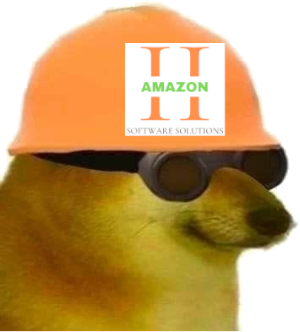
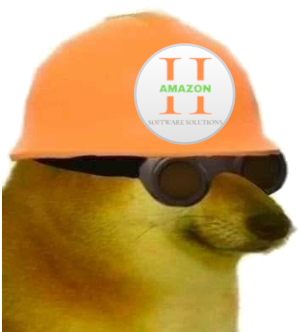
Cambio a las imagenes, botones y añadido al frontend
Se cambio todo a png
Cheems evoluciono
Se mejoro los pop_ups y se implementaron algunos
añadido nuevo color a los botones
Nuevos campos al registro de cliente

diff --git a/inicio.py b/inicio.py
@@ -4,7 +4,7 @@ import tkinter
 from tkinter import  messagebox
 import os
 from tkinter import *
-#from models.administrador import consulta_BD
+from models.administrador import consulta_BD
 import hashlib
 
 def inicio_sesion(): #pantalla al iniciar el programa, se encontrara el inicio de sesion
@@ -17,6 +17,10 @@ def inicio_sesion(): #pantalla al iniciar el programa, se encontrara el inicio d
     password_verify=StringVar() #indicamos el tipo de variable
     cupos=IntVar() #indicamos el tipo de variable
     reserva=IntVar() #indicamos el tipo de variable
+    new_name.delete(first=0,last='end')
+    new_lastname.delete(first=0,last='end')
+    new_user.delete(first=0,last='end')
+    new_password.delete(first=0,last='end')
     
     cupos=10 #inicializamos (TEMPORALES PARA PRUEBAS)
     estrellas=5 #limite de estrellas a dar
@@ -39,24 +43,43 @@ def inicio_sesion(): #pantalla al iniciar el programa, se encontrara el inicio d
 
     #boton para iniciar sesion
     Label(pantalla, text="").pack()
-    Button(pantalla, text='Iniciar Sesión', height="2", width="20", command=validar).pack()
+    Button(pantalla, text='Iniciar Sesión',
+             height="2", width="20",
+             bg= "#BCEBE0",
+             command=validar).pack()
 
     #boton para registrar
     Label(pantalla, text="").pack()
-    Button(pantalla, text='¿No tienes cuenta? \n Registrate!', height="3", width="20", command=registro).pack()  
+    Button(pantalla, text='¿No tienes cuenta? \n Registrate!',
+             height="3", width="20",
+             bg= "#BCEBE0",
+             command=registro).pack()  
 
    #depuramos la pantalla como iniciador del programa 
     pantalla.mainloop()
     
 def registro(): #Se despliega encima de iniciar sesion para dar un registro
-    global pantalla_r, new_user, new_password
+    global pantalla_r, new_user, new_password, new_name, new_lastname
     pantalla_r = Toplevel(pantalla) #pantalla_r = pantalla registro
     pantalla_r.geometry("300x350")
     pantalla_r.title("Registro")
     user_entry.delete(first=0,last='end') #limpiamos campos
     password_entry.delete(first=0,last='end')
+    new_name.delete(first=0,last='end')
+    new_lastname.delete(first=0,last='end')
     
     Label(pantalla_r, text="Ingrese los datos para el registro", font="bold").pack()
+    Label(pantalla_r, text="").pack()
+
+    #Pide el nuevo usuario
+    Label(pantalla_r, text="Nombre(s):").pack()
+    new_name = Entry(pantalla_r, textvariable=user_verify, width="25")
+    new_name.pack()
+
+    #Pide el nuevo usuario
+    Label(pantalla_r, text="Apellido(s):").pack()
+    new_lastname = Entry(pantalla_r, textvariable=user_verify, width="25")
+    new_lastname.pack()
     Label(pantalla_r, text="").pack()
 
     #Pide el nuevo usuario
@@ -71,7 +94,10 @@ def registro(): #Se despliega encima de iniciar sesion para dar un registro
     Label(pantalla_r, text="").pack()
 
     #Registra al nuevo usuario y contraseña
-    Button(pantalla_r, text='REGISTRAR', height="3", width="20", command=registrar_bd).pack()
+    Button(pantalla_r, text='REGISTRAR',
+             height="3", width="20",
+             bg= "#BCEBE0",
+             command=registrar_bd).pack()
     
 def menu_cliente(): #Menu a desplegar a todos estos usuarios de tipo cliente
     global pantalla_mc #Pantalla_mc = pantalla menu cliente 
@@ -86,21 +112,25 @@ def menu_cliente(): #Menu a desplegar a todos estos usuarios de tipo cliente
     #Boton llamado info (informacion) y sus caracteristicas
     info = Button(pantalla_mc, text="Informacion", 
                   height="3", width="300",
+                  bg= "#BCEBE0",
                   command=ver_info).pack()
     Label(pantalla_mc, text="").pack()
     #Boton llamado reserva y sus caracteristicas
     reserva = Button(pantalla_mc, text="Reservar",
                      height="3", width="300",
+                     bg= "#BCEBE0",
                      command=lambda:menu_reservaciones(0)).pack()
     Label(pantalla_mc, text="").pack()
     #Boton llamado calificar y sus caracteristicas
     calificar = Button(pantalla_mc, text="Calificar",
                        height="3", width="300",
+                       bg= "#BCEBE0",
                        command=lambda:menu_calificacion(0)).pack()
     Label(pantalla_mc, text="").pack()
     #Boton llamado menu y sus caracteristicas
     menu = Button(pantalla_mc, text="Menu",
                        height="3", width="300",
+                       bg= "#BCEBE0",
                        command=lambda:pop_ups("No hay menu hasta que\nFercho lo metam")).pack()                   
     Label(pantalla_mc, text="").pack()
 
@@ -125,21 +155,25 @@ def menu_admin(): #Menu a desplegar al usuario de tipo admin
     #Boton de informacion
     info = Button(pantalla_ma, text="Modificar\ninformación", 
                   height="3", width="300",
+                  bg= "#BCEBE0",
                   command=modificar_info).pack()
     Label(pantalla_ma, text="").pack()
     #Boton de reservaciones
     reserva = Button(pantalla_ma, text="Reservaciones",
                      height="3", width="300",
+                     bg= "#BCEBE0",
                      command=lambda:menu_reservaciones(1)).pack()
     Label(pantalla_ma, text="").pack()
     #Boton de calificaciones
     calificar = Button(pantalla_ma, text="Calificaciones",
                        height="3", width="300",
+                       bg= "#BCEBE0",
                        command=lambda:menu_calificacion(1)).pack()
     Label(pantalla_ma, text="").pack()
     #Boton de menu de comida
     menu = Button(pantalla_ma, text="Modificar menú",
                        height="3", width="300",
+                       bg= "#BCEBE0",
                        command=lambda:menu_calificacion(1)).pack()                   
     Label(pantalla_ma, text="").pack()
 
@@ -162,7 +196,8 @@ def ver_info():#Funcion para ver la informacion
     frame_titulo = Frame(pantalla_viewinfo, bg = "white") 
     frame_titulo.grid(column=0,row=0)
     #Etiqueta de titulo del frame
-    Label(frame_titulo, text="Información", font=("Arial", 20), fg="navy blue", bg="white").grid(column=0,row=0, padx=150, pady=10)
+    Label(frame_titulo, text="Información", font=("Arial", 20),
+          fg="navy blue", bg="white").grid(column=0,row=0, padx=150, pady=10)
 
     frame_info = Frame(pantalla_viewinfo, bg= "white")
     frame_info.grid(column=0, row=1)
@@ -264,22 +299,28 @@ def menu_reservaciones(user): #Funcion que despliega el menu de reservaciones, r
         #Se crean los botones de las funciones de reservar
         Button(pantalla_rese, text="Reservar",
                height="3", width="300",
+               bg= "#BCEBE0",
                command=crear_reservacion).pack() #Boton de Crear reservacion
         Label(pantalla_rese, text="").pack()
         Button(pantalla_rese, text="Ver mi reservacion",
                height="3", width="300",
+               bg= "#BCEBE0",
                command=ver_reservacion).pack() #Boton de Ver reservacion
         Label(pantalla_rese, text="").pack()
         Button(pantalla_rese, text="Cancelar reservacion",
-               height="3", width="300").pack() #Boton de Borrar reservacion
+               height="3", width="300",
+               bg= "#BCEBE0").pack() #Boton de Borrar reservacion
         Label(pantalla_rese, text="").pack()
         Button(pantalla_rese, text="Obtener codigo", 
-               height="3", width="300", command=codigo_reservacion).pack() #Boton Obtener el Codigo QR
+               height="3", width="300",
+               bg= "#BCEBE0",
+               command=codigo_reservacion).pack() #Boton Obtener el Codigo QR
         Label(pantalla_rese, text="").pack()
     else:
         #Botones para el admin relacionados con reservar
         Button(pantalla_rese, text="Ver reservaciones",
-               height="3", width="300").pack() #Boton para Ver las reservaciones totales
+               height="3", width="300",
+               bg= "#BCEBE0").pack() #Boton para Ver las reservaciones totales
         Label(pantalla_rese, text="").pack()
     volver = Button(pantalla_rese, text="Volver",
                     height="2", width="15",
@@ -287,16 +328,16 @@ def menu_reservaciones(user): #Funcion que despliega el menu de reservaciones, r
 
 def codigo_reservacion(): #Funcion para obtener el codigo QR de la reservacion (TRATAR DE HACER UN GENERADOR)
     global qr, reserva 
-    qr = Toplevel(pantalla_rese) #Encima de la ventana de reservaciones
-    imagen_codigo=PhotoImage(file="QR.gif") #Importamos la imagen
-    image=imagen_codigo.subsample(2,2)
-    qr.geometry("200x200")
-    qr.title("Codigo de reservacion")
     
     if reserva==0: #TEMPORAL comprobamos si tiene una reserva, sino se despliega un pop up de error
-        Label(qr, text="No tiene una reserva").pack()
+        pop_ups("No tiene reserva")
             #Falta el pop up ;p
     else:
+        qr = Toplevel(pantalla_rese) #Encima de la ventana de reservaciones
+        imagen_codigo=PhotoImage(file="QR.gif") #Importamos la imagen
+        image=imagen_codigo.subsample(2,2)
+        qr.geometry("200x200")
+        qr.title("Codigo de reservacion")
         Label(qr, image=imagen_codigo).pack() #Si tiene reserva, se muestra el QR
     
     qr.mainloop() #Lo hacemos mainloop para que se muestre la imagen, se elimina al destruir la ventana al parecer
@@ -333,23 +374,26 @@ def crear_reservacion(): #Funcion para crear la reservacion
     
     resta = Button(crear_rese, text="-",
                    height="2", width="4",
-                   font="18", command=lambda:cupos_disp(0)).grid(row=3, column=0, padx=3) #Boton de resta
+                   font="18", bg= "#BCEBE0",
+                   command=lambda:cupos_disp(0)).grid(row=3, column=0, padx=3) #Boton de resta
     suma = Button(crear_rese, text="+",
                   height="2", width="4",
-                  font="18", command=lambda:cupos_disp(1)).grid(row=3, column=2) #Boton de suma
+                  font="18", bg= "#BCEBE0",
+                  command=lambda:cupos_disp(1)).grid(row=3, column=2) #Boton de suma
     reservar = Button(crear_rese, text="RESERVAR",
                       heigh="3",
-                      font="18", command=ocupar).grid(row=5, column=1) #Boton para reservar y finalizar
+                      font="18", bg= "#BCEBE0",
+                      command=ocupar).grid(row=5, column=1) #Boton para reservar y finalizar
     
 def ver_reservacion(): #Funcion para Ver la Reservacion
     global ver_rese, reserva #ver rese = pantalla de ver reserva
-    ver_rese = Toplevel(pantalla_rese) #Encima de la ventana de reservaciones
-    ver_rese.geometry("300x300")
-    ver_rese.title("Ver reservacion")
     
     if reserva==0: #No existe reservacion
-        Label(ver_rese, text="No tiene una reserva").pack() #se cambiara a un pop up
+        pop_ups("No tiene una reserva") #se cambiara a un pop up
     else:
+        ver_rese = Toplevel(pantalla_rese) #Encima de la ventana de reservaciones
+        ver_rese.geometry("300x300")
+        ver_rese.title("Ver reservacion")
         Label(ver_rese, text="Su reserva es:").pack() #pop up donde se muestra la info PROXUMAMENTE
     
 def menu_calificacion(user): #Interfaz de las calificaciones
@@ -358,24 +402,27 @@ def menu_calificacion(user): #Interfaz de las calificaciones
         pantalla_cali = Toplevel(pantalla_ma)
     else: #Si es cliente
         pantalla_cali = Toplevel(pantalla_mc)
-    pantalla_cali.geometry("300x300")
+    pantalla_cali.geometry("300x320")
     pantalla_cali.title("Calificacion")
     
     if user!=1: #Si el usuario no es admin se muestra la opcion de calificar
         Button(pantalla_cali, text="Calificar",
                height="3", width="300",
+               bg= "#BCEBE0",
                command=crear_calificacion).pack()
         Label(pantalla_cali, text="").pack()
 
     Button(pantalla_cali, text="Ver calificacion",
-           height="3", width="300").pack() #Boton para ver la calificacion
+           height="3", width="300",
+           bg= "#BCEBE0").pack() #Boton para ver la calificacion
     Label(pantalla_cali, text="").pack()
 
     puntuacion = Label(pantalla_cali, text="...").pack() #Promedio de calificacion no visible
     Label(pantalla_cali, text="").pack()
 
     Button(pantalla_cali, text="Ver Opiniones",
-           height="3", width="300").pack() #Boton para ver las opiniones
+           height="3", width="300",
+           bg= "#BCEBE0").pack() #Boton para ver las opiniones
     Label(pantalla_cali, text="").pack()
 
     volver = Button(pantalla_cali, text="Volver",
@@ -387,6 +434,8 @@ def crear_calificacion():
     pantalla_crear_cali = Toplevel(pantalla_cali)
     pantalla_crear_cali.geometry("290x300")
     pantalla_crear_cali.title("Crear Calificacion")
+    user_entry.delete(first=0,last='end') #limpiamos campos
+    password_entry.delete(first=0,last='end')
 
     Label(pantalla_crear_cali, text="Seleccione la Puntuacion:",
           font="15,bold").grid(column=1) #Muestra los cupos disponibles
@@ -411,9 +460,11 @@ def crear_calificacion():
 
     resta = Button(pantalla_crear_cali, text="-",
                    height="2", width="4",
+                   bg= "#BCEBE0",
                    font="18", command=lambda:dar_puntos(0)).grid(row=3, column=0, padx=3) #Boton de resta
     suma = Button(pantalla_crear_cali, text="+",
                   height="2", width="4",
+                  bg= "#BCEBE0",
                   font="18", command=lambda:dar_puntos(1)).grid(row=3, column=2) #Boton de suma
 
     Label(pantalla_crear_cali, text="").grid(column=0, columnspan=3)
@@ -425,6 +476,7 @@ def crear_calificacion():
 
     submit = Button(pantalla_crear_cali, text="Registrar calificacion",
                     height="3", width="20",
+                    bg= "#BCEBE0",
                     command=pantalla_crear_cali.destroy).grid(column=1)
     Label(pantalla_crear_cali, text="").grid(column=0, columnspan=3)
     
